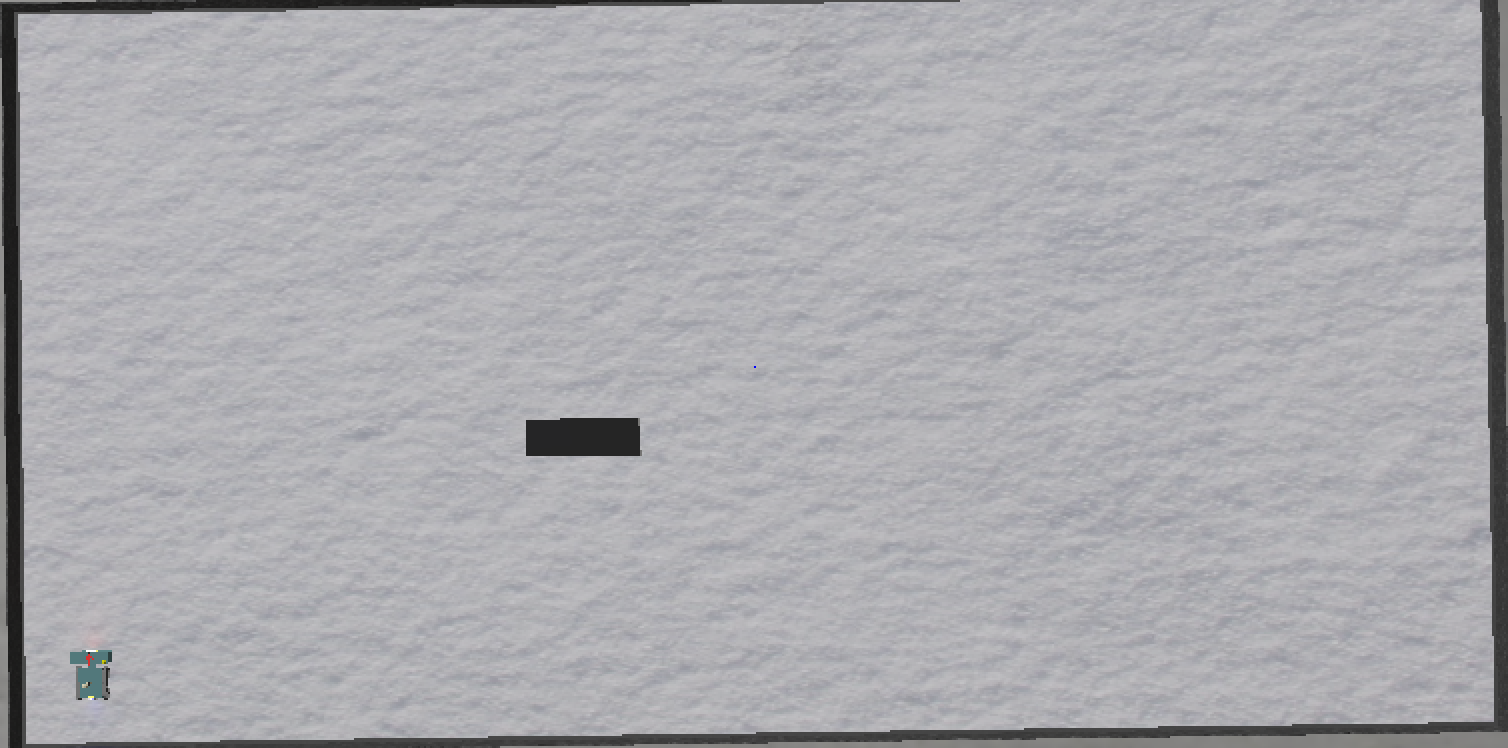
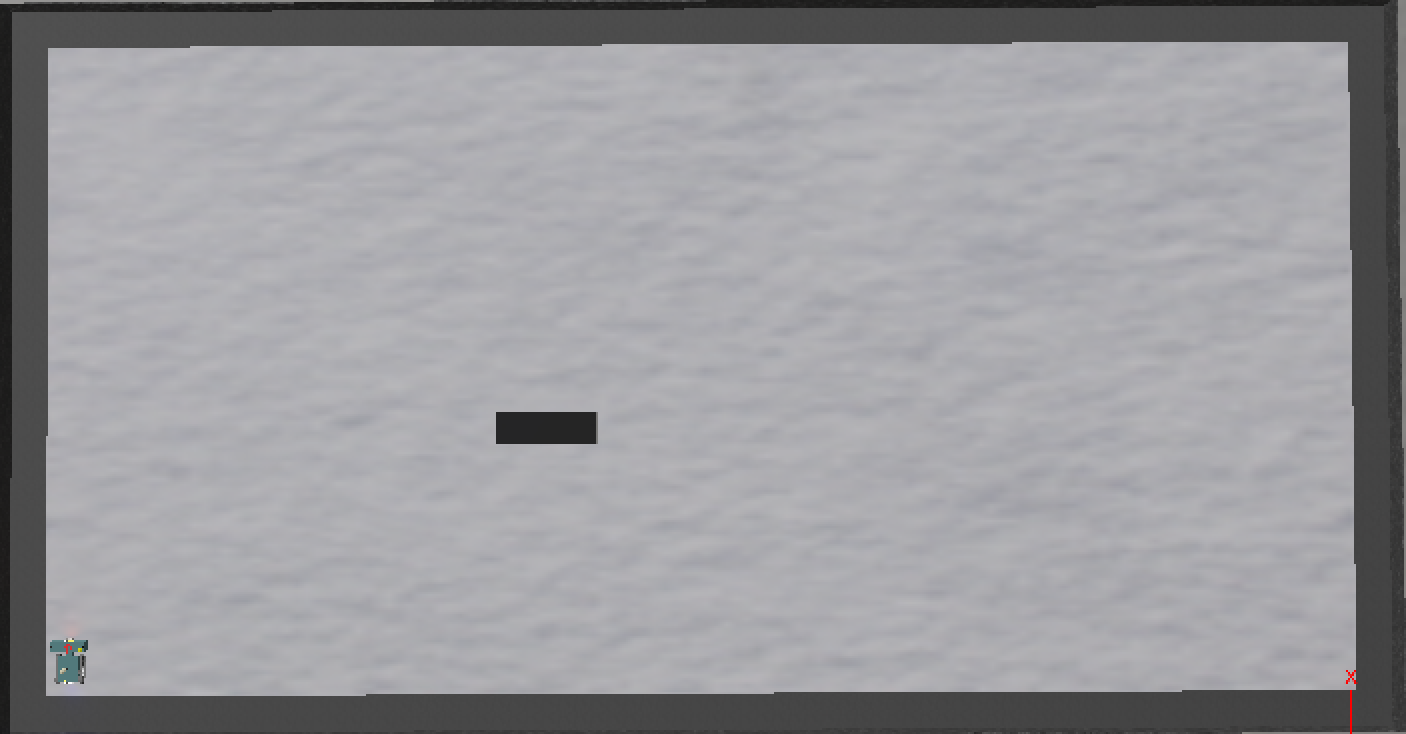
update

Changed region(s): [[0.0, 0.0, 1.0, 1.0], [0.3364, 0.5695, 0.4282, 0.6294]]

diff --git a/Simulation/Scenario_2_new/Coverage_Planning/main_BCD.py b/Simulation/Scenario_2_new/Coverage_Planning/main_BCD.py
@@ -3,8 +3,8 @@
 #-----------------------------------------------
 # Apply Boustrophedon Cellular Decomposition to a map
 # Engineer(s): V. J. Hansen
-# Version 0.9.1
-# Data: 14.05.2020
+# Version 0.9.2
+# Data: 16.05.2020
 
 #-----------------------------------------------
 from matplotlib import pyplot as plt
@@ -184,19 +184,16 @@ def calculate_x_coordinates(x_size, y_size, cells_to_visit, cell_boundaries, non
 #-----------------------------------------------
 if __name__ == '__main__':
     original_map = cv2.imread("files/new_map.png")
-
     # We need a binary image - 1 represents free space, 0 represents objects/walls
     if len(original_map.shape) > 2:
         print("Map image is converted to binary")
         single_channel_map = original_map[:, :, 0]
         _, binary_map = cv2.threshold(single_channel_map, 127, 1, cv2.THRESH_BINARY)
-
     # Call Boustrophedon Cellular Decomposition function
     bcd_out_im, bcd_out_cells, cell_numbers, cell_boundaries, non_neighboor_cell_numbers = bcd(binary_map)
     # Show the decomposed cells on top of original map
     display_separate_map(bcd_out_im, bcd_out_cells)
     plt.show(block=False)
-
     # Add cost using distance between center of mass of cells
     def mean(input_list):
         output_mean = sum(input_list)/len(input_list)
@@ -225,20 +222,19 @@ if __name__ == '__main__':
     mean_x_coordinates = {}
     mean_y_coordinates = {}
 
-    # field names
-    fields = ['Cell', 'Z_start', 'Z_end', 'X_start', 'X_end']
-
     # X is the length of the parking lot, which is 10 meters
     X_max = 4.5   # [m], these will be related to y_coordinates of image
-    X_min = -4.5 # [m], these will be related to y_coordinates of image
+    X_min = -4.5  # [m], these will be related to y_coordinates of image
 
     # Z is the width of the parking lot, which is 20 meters
     Z_max = 9.5   # [m], these will be related to x_coordinates of image
     Z_min = -9.5  # [m], these will be related to x_coordinates of image
 
     #gps = ((gps_max-gps_min)/(px_max-px_min))*(px-px_min)+gps_min
+    px_min = 1
 
-    # the values for Z will have to be divided into segments of equal size.
+    # field names
+    fields = ['Cell', 'Z_start', 'Z_end', 'X_start', 'X_end']
     filename = "files/BCD_coordinates.csv"
     # writing to csv file
     with open(filename, 'w') as csvfile:
@@ -248,17 +244,20 @@ if __name__ == '__main__':
             # data rows of csv file   # first, middle and last y_coordinates are 4D
             cell_idx = i+1
             if ( (cell_idx == 1) | (cell_idx == len(x_coordinates)) | (cell_idx == ((len(x_coordinates)+1)/2)) ):
-                rows = [[   cell_numbers[i],
-                            ((Z_max-Z_min)/(x_length))*(x_coordinates[cell_idx][0])+Z_min,
-                            ((Z_max-Z_min)/(x_length))*(x_coordinates[cell_idx][len(x_coordinates[cell_idx])-1])+Z_min,
-                            ((X_max-X_min)/(y_length))*(y_coordinates[cell_idx][0][0][0])+X_min,
-                            ((X_max-X_min)/(y_length))*(y_coordinates[cell_idx][0][0][1])+X_min ] ]
+                rows = [[   cell_numbers[i],  ## (x_ / y_length -1) because of image borders
+                            #gps = ((gps_max-gps_min)/(px_max-px_min))*(px-px_min)+gps_min
+                            ((Z_max-Z_min)/(x_length-px_min)) * (x_coordinates[cell_idx][0]-px_min)+Z_min, #Zs
+                            ((Z_max-Z_min)/(x_length-px_min)) * (x_coordinates[cell_idx][len(x_coordinates[cell_idx])-px_min]-1)+Z_min,
+                            ((X_max-X_min)/(y_length-px_min)) * (y_coordinates[cell_idx][0][0][0]-px_min)+X_min, #xs
+                            ((X_max-X_min)/(y_length-px_min)) * (y_coordinates[cell_idx][0][0][1]-px_min)+X_min ] ] #xe
             elif ( (cell_idx != 1) | (cell_idx != len(x_coordinates)) ):
-                rows = [ [  cell_numbers[i],
-                            ((Z_max-Z_min)/(x_length))*(x_coordinates[cell_idx][0])+Z_min,
-                            ((Z_max-Z_min)/(x_length))*(x_coordinates[cell_idx][len(x_coordinates[cell_idx])-1])+Z_min,
-                            ((X_max-X_min)/(y_length))*(y_coordinates[cell_idx][0][0])+X_min,
-                            ((X_max-X_min)/(y_length))*(y_coordinates[cell_idx][0][1])+X_min ] ]
+                rows = [ [  cell_numbers[i], ## (x_ / y_length -1) because of image borders
+                            #gps = ((gps_max-gps_min)/(px_max-px_min))*(px-px_min)+gps_min
+                            ((Z_max-Z_min)/(x_length-px_min)) * (x_coordinates[cell_idx][0]-px_min)+Z_min,
+                            ((Z_max-Z_min)/(x_length-px_min)) * (x_coordinates[cell_idx][len(x_coordinates[cell_idx])-1]-px_min)+Z_min,
+
+                            ((X_max-X_min)/(y_length-px_min)) * (y_coordinates[cell_idx][0][0]-px_min)+X_min, #xs
+                            ((X_max-X_min-1)/(y_length-px_min)) * (y_coordinates[cell_idx][0][1]-px_min)+X_min ] ] #xe
             csvwriter.writerows(rows) # writing the data rows
     for i in range(len(x_coordinates)):
         cell_idx = i+1 #i starts from zero, but cell numbers start from 1
@@ -270,4 +269,4 @@ if __name__ == '__main__':
     plt.waitforbuttonpress(1)
     input("Press any key to close all figures.")
     plt.close("all")
-    os.system("python3 generate_coords_BCD.py")
+    os.system("python3 generate_coords_BCD.py") # run another python-script

diff --git a/Simulation/Scenario_2_new/Coverage_Planning/files/image_to_binary_map.py b/Simulation/Scenario_2_new/Coverage_Planning/files/image_to_binary_map.py
@@ -5,8 +5,8 @@
 # https://stackoverflow.com/questions/50368683/set-white-color-outside-boundingbox-python-opencv
 
 # Engineer(s): V. J. Hansen
-# Version: 1.1
-# Date: 14.05.2020
+# Version: 1.2
+# Date: 16.05.2020
 
 import cv2, argparse, os
 import numpy as np
@@ -18,13 +18,13 @@ def shape_selection(event, x, y, flags, param):
     # grab references to the global variables
     global ref_point, crop
 
-    # if left mouse button was clicked, record the starting (x, y) coordinates and indicate that cropping is being performed
+    # left mouse button clicked, record the starting (x, y)-coordinates and indicate that cropping is being performed
     if event == cv2.EVENT_LBUTTONDOWN:
         ref_point = [(x, y)]
 
-    # check if left mouse button was released
+    # left mouse button released
     elif event == cv2.EVENT_LBUTTONUP:
-        # record the ending (x, y) coordinates and indicate that the cropping operation is finished
+        # record the ending (x, y)-coordinates and indicate that the cropping operation is finished
         ref_point.append((x, y))
 
         # draw a rectangle around the region of interest (roi)
@@ -35,19 +35,16 @@ def shape_selection(event, x, y, flags, param):
         white_bg[y1:y2, x1:x2] = roi
         cv2.imshow("image", image)
 
-# construct the argument parser and parse the arguments
 ap = argparse.ArgumentParser()
 ap.add_argument("-i", "--image", required=True, help="Path to the image")
 args = vars(ap.parse_args())
 
-# load image, clone it, and initialize the mouse callback function
+# load image, clone it, and initialize mouse callback function
 image = cv2.imread(args["image"])
 white_bg = 255*np.ones_like(image)
 clone = image.copy()
 cv2.namedWindow("image", cv2.WINDOW_NORMAL)
-
 cv2.setMouseCallback("image", shape_selection)
-
 cwd = os.getcwd()
 print("Drag a rectangle to cover the obstacles")
 print("Press 'r' to reset")
@@ -69,11 +66,12 @@ while True:
         cv2.imshow('binary map', white_bg)
     # press 'q' to quit
     elif key == ord("q"):
-        resized_img = cv2.resize(white_bg, (251, 221)) # resize image
+        #resized_img = cv2.resize(white_bg, (251, 221)) # resize image
         # add black border to resized image (the border is needed for the BCD to set the boundary of our area)
         bordersize = 1
         border = cv2.copyMakeBorder(
-                        resized_img,
+                        #resized_img,
+                        white_bg,
                         top = bordersize,
                         bottom = bordersize,
                         left = bordersize,

diff --git a/Simulation/Scenario_2_new/controllers/bcd_snowe/bcd_snowe.c b/Simulation/Scenario_2_new/controllers/bcd_snowe/bcd_snowe.c
@@ -168,7 +168,7 @@ static int drive_autopilot(void) {
     printf("(t: %.4g, %.4g)\n", gps_pos[X], gps_pos[Z]);
   }
   // how close the snow blower should approach the waypoints
-  if (distance <= 0.2) {
+  if (distance <= 0.5) {
     target_index++;
   }
   else {
